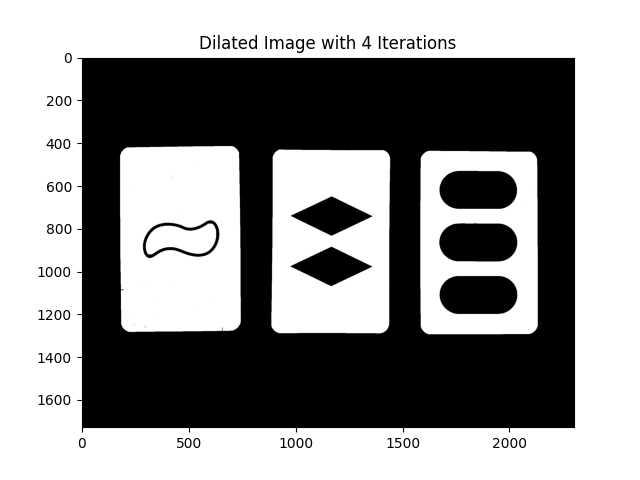
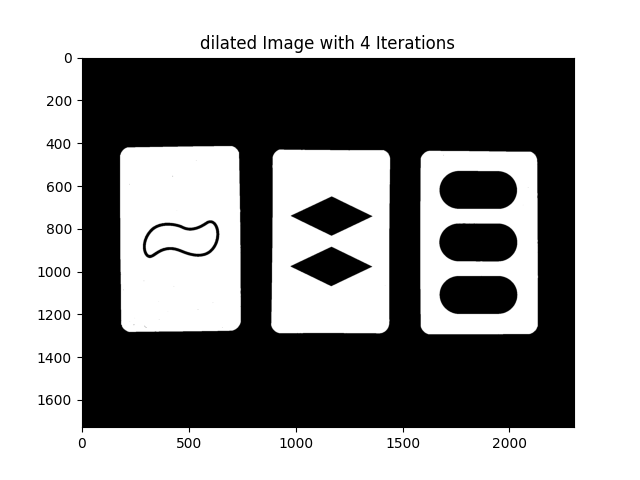
AB04: - fertig

Changed region(s): [[0.3125, 0.0625, 0.7188, 0.125]]

diff --git a/AB04_Anne_Schmidt_11141929.py b/AB04_Anne_Schmidt_11141929.py
@@ -3,10 +3,15 @@ import numpy as np
 import matplotlib.pyplot as plt
 from queue import Queue
 import time
+import random
 
 # Read input image
-input_img = cv2.imread("Utils/SetExample1.png")
+img = cv2.imread("IMG_1972.jpg")
+input_img = cv2.resize(img, (640, 480))
 
+plt.title("Original Image")
+plt.imshow(input_img)
+plt.show()
 
 # Function to compute histogram of grayscale image
 def histogram(img):
@@ -63,13 +68,109 @@ def binarization(img, threshold):
     height, width = img.shape[:2]
     bin_img = np.zeros((height, width), dtype=np.uint8)
 
+    for i in range(height):
+        for j in range(width):
+            if img[i, j] < threshold:
+                bin_img[i, j] = 0
+            else:
+                bin_img[i, j] = 1
+    return bin_img
+
+
+# Aufgabe 3
+def flood_fill_dfs(image, x, y, label):
+    height, width = image.shape[:2]
+    stack = []
+    stack.append((x, y))
+    while stack:
+        x, y = stack.pop()
+        if 0 <= x < height and 0 <= y < width and image[x][y] == 1:
+            image[x][y] = label
+            stack.append((x + 1, y))
+            stack.append((x, y + 1))
+            stack.append((x, y - 1))
+            stack.append((x - 1, y))
+
+
+def flood_fill_bfs(image, x, y, label):
+    height, width = image.shape[:2]
+    queue = Queue()
+    queue.put((x, y))
+    while not queue.empty():
+        x, y = queue.get()
+        if 0 <= x < height and 0 <= y < width and image[x][y] == 1:
+            image[x][y] = label
+            queue.put((x + 1, y))
+            queue.put((x, y + 1))
+            queue.put((x, y - 1))
+            queue.put((x - 1, y))
+
+
+def region_labeling(image):
+    label = 2
+    for x in range(image.shape[0]):
+        for y in range(image.shape[1]):
+            if image[x][y] == 1:
+                # flood_fill_dfs(image, x, y, label)
+                flood_fill_bfs(image, x, y, label)
+                label = label + 1
+
+
+def flood_fill_recursive(image, x, y, label):
+    height, width = image.shape[:2]
+
+    if 0 <= x < width and 0 <= y < height and image[x][y] == 1:
+
+        image[x][y] = label
+
+        flood_fill_recursive(image, x + 1, y, label)
+        flood_fill_recursive(image, x - 1, y, label)
+        flood_fill_recursive(image, x, y + 1, label)
+        flood_fill_recursive(image, x, y - 1, label)
+
+    else:
+        return
+
+
+def region_labeling_recursive(image):
+    label = 2
+    height, width = image.shape[:2]
+
     for y in range(height):
         for x in range(width):
-            if img[y, x] < threshold:
-                bin_img[y, x] = 0
-            else:
-                bin_img[y, x] = 255
-    return bin_img
+
+            flood_fill_recursive(image, x, y, label)
+            label += 1
+
+
+def region_coloring(image):
+    # Maximalen Labelwert finden
+    max_label = np.max(image)
+
+    # Zufällige Farben für jeden möglichen Labelwert generieren und in einem Dictionary speichern
+    colors = {}
+    for label in range(1, max_label + 1):
+        colors[label] = [random.randint(0, 255), random.randint(0, 255), random.randint(0, 255)]
+
+    # Bild für die gefärbte Darstellung initialisieren
+    image_color = np.zeros((image.shape[0], image.shape[1], 3), dtype=np.uint8)
+
+    # Farben entsprechend den Regionen zuweisen
+    for x in range(image.shape[0]):
+        for y in range(image.shape[1]):
+            label = image[x][y]
+            if label != (0 and 1):
+                image_color[x][y] = colors[label]
+
+    return image_color
+
+
+def scale_picture(img, scale_percent):
+    width = int(img.shape[1] * scale_percent / 100)
+    height = int(img.shape[0] * scale_percent / 100)
+    dim = (width, height)
+    img = cv2.resize(img, dim, interpolation=cv2.INTER_AREA)
+    return img
 
 
 # Compute histogram of input image
@@ -85,90 +186,12 @@ otsu_img = binarization(input_img, optimal_threshold)
 # Creating kernel
 kernel = np.ones((3, 3), np.uint8)
 
-otsu_img_eroded = cv2.erode(otsu_img, kernel, iterations=4)
-otsu_img_dilated = cv2.dilate(otsu_img_eroded, kernel, iterations=4)
-
-# Display binary image using otsu threshold
-plt.title("Binary Image with Otsu Threshold: " + str(optimal_threshold))
-plt.imshow(otsu_img, cmap='gray')
-plt.show()
-
-# Display eroded image
-plt.title("Eroded Image with 4 Iterations")
-plt.imshow(otsu_img_eroded, cmap='gray')
-plt.show()
-
-# Display dilated image
-plt.title("Dilated Image with 4 Iterations")
-plt.imshow(otsu_img_dilated, cmap='gray')
-plt.show()
+otsu_img_eroded = cv2.erode(otsu_img, kernel, iterations=1)
+otsu_img_dilated = cv2.dilate(otsu_img_eroded, kernel, iterations=1)
 
 
-# Aufgabe 3
-def flood_fill_dfs(image, x, y, label):
-    height, width = image.shape[:2]
-    stack = []
-    stack.append((x, y))
-    fill_color = label_colors[label]
-    while stack:
-        x, y = stack.pop()
-        if 0 <= x < height and 0 <= y < width and np.all(image[x][y] == 255):
-            image[x][y] = fill_color
-            stack.append((x + 1, y))
-            stack.append((x, y + 1))
-            stack.append((x, y - 1))
-            stack.append((x - 1, y))
+region_img = otsu_img_dilated.copy()
 
-
-def flood_fill_bfs(image, x, y, label):
-    height, width = image.shape[:2]
-    queue = Queue()
-    queue.put((x, y))
-    fill_color = label_colors[label]
-    while not queue.empty():
-        x, y = queue.get()
-        if 0 <= x < height and 0 <= y < width and np.all(image[x][y] == 255):
-            image[x][y] = fill_color
-            queue.put((x + 1, y))
-            queue.put((x, y + 1))
-            queue.put((x, y - 1))
-            queue.put((x - 1, y))
-
-
-def flood_fill_recursive(image, x, y, label):
-    height, width = image.shape[:2]
-    fill_color = label_colors[label]
-    # old_color = image[x, y]
-
-    if not (0 <= x < height and 0 <= y < width) or not np.all(image[x][y] == 255):
-        return
-
-    image[x, y] = fill_color
-
-    flood_fill_recursive(image, x + 1, y, label)
-    flood_fill_recursive(image, x - 1, y, label)
-    flood_fill_recursive(image, x, y + 1, label)
-    flood_fill_recursive(image, x, y - 1, label)
-
-
-def region_labeling(image):
-    label = 2
-    for x in range(image.shape[0]):
-        for y in range(image.shape[1]):
-            if np.all(image[x][y] == 255):
-                random_color = (np.random.randint(0, 256), np.random.randint(0, 256), np.random.randint(0, 256))
-                label_colors[label] = random_color
-                # flood_fill_dfs(image, x, y, label)
-                # flood_fill_bfs(image, x, y, label)
-                flood_fill_recursive(image, x, y, label)
-                label += 1
-
-
-# binary test img convertion to RGB - Color channels are needed fpr the colorization labeling
-region_img = cv2.cvtColor(otsu_img_dilated, cv2.COLOR_GRAY2RGB)
-
-# dynamic color labels list
-label_colors = {}
 
 # start and stop time for the region_labeling method
 start_time = time.time()
@@ -177,13 +200,38 @@ end_time = time.time()
 
 # calculation for the taken time
 execution_time = end_time - start_time
-print("Execution time: ", execution_time, "seconds")
+print("Execution time for Region labeling: ", execution_time, "seconds")
 
-# Print the labels and its colors
-print(label_colors)
 
-# display img
-plt.title("Image Region Label")
-plt.imshow(region_img, cmap="gray")
+start_time = time.time()
+img_color = region_coloring(region_img)
+end_time = time.time()
+
+execution_time = end_time - start_time
+print("Execution time for Coloring: ", execution_time, "seconds")
+
+
+# img_scaled = scale_picture(img_color, 30)
+# img_scaled2 = scale_picture(region_img, 30)
+#
+# cv2.imshow("Image Region Label", img_scaled2 * 255)
+# cv2.imshow("Image Region Label Color", img_scaled * 255)
+# cv2.waitKey(0)
+# cv2.destroyAllWindows()
+
+
+plt.title("Binary Image with Otsu Threshold")
+plt.imshow(otsu_img, cmap='gray')
 plt.show()
-
+plt.title("eroded Image with 1 Iterations")
+plt.imshow(otsu_img_eroded, cmap='gray')
+plt.show()
+plt.title("dilated Image with 1 Iterations")
+plt.imshow(otsu_img_dilated, cmap='gray')
+plt.show()
+plt.title("Region labeled Image")
+plt.imshow(region_img, cmap='gray')
+plt.show()
+plt.title("colored Region Image")
+plt.imshow(img_color, cmap="gray")
+plt.show()
